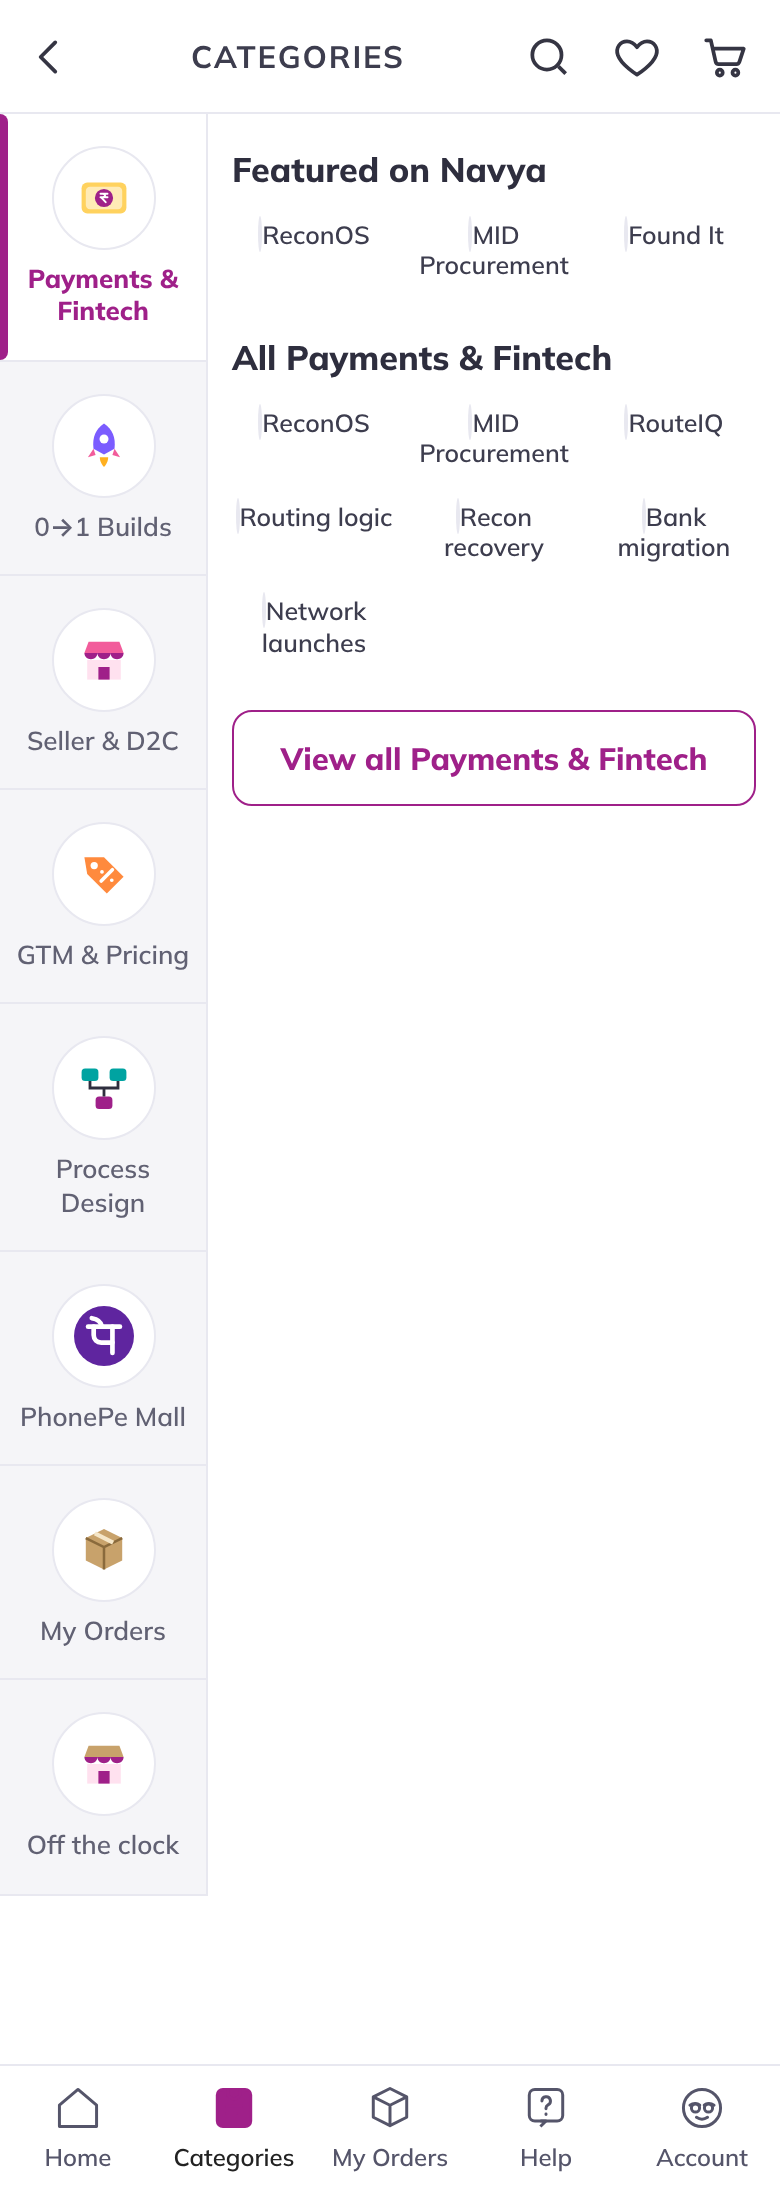
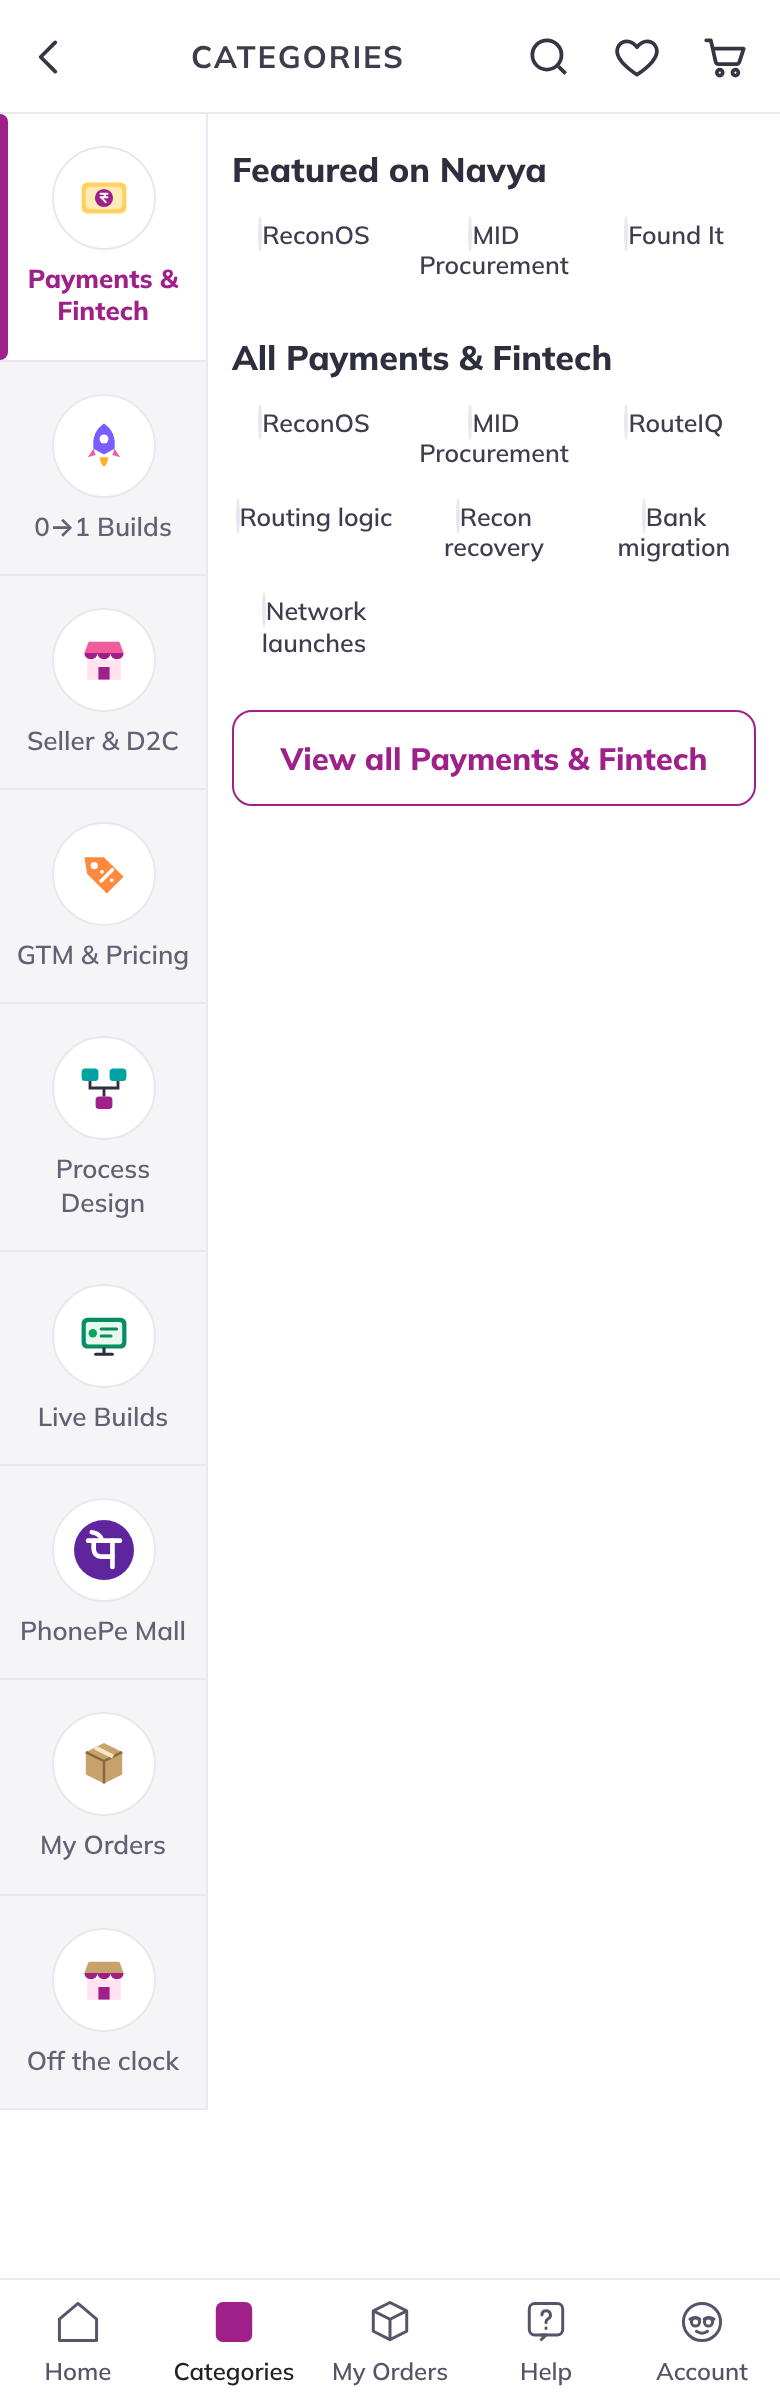
Make live builds easy to find: Try it live buttons, PDP live bar, Live Builds filter
Also fixes the mobile listing header order and trims the desktop nav row.

Claude-Session: https://claude.ai/code/session_01THtnK1kzX2RkawkJBz5nu7

diff --git a/assets/app.js b/assets/app.js
@@ -5,7 +5,8 @@
   var $ = function (s, r) { return (r || document).querySelector(s); };
   var $$ = function (s, r) { return Array.prototype.slice.call((r || document).querySelectorAll(s)); };
   var esc = function (s) { return String(s == null ? "" : s).replace(/[&<>"']/g, function (c) { return { "&": "&amp;", "<": "&lt;", ">": "&gt;", '"': "&quot;", "'": "&#39;" }[c]; }); };
-  var byId = {}; D.products.forEach(function (p) { byId[p.id] = p; });
+  var byId = {}; D.products.forEach(function (p) { byId[p.id] = p; if (p.links.length && p.cats.indexOf("live") < 0) p.cats.push("live"); });
+  function host(u) { return u.replace(/^https?:\/\//, "").replace(/^www\./, "").split("/")[0]; }
 
   /* ---------------- storage (per-viewer convenience only) ---------------- */
   function load(k, d) { try { var v = localStorage.getItem("mxn_" + k); return v ? JSON.parse(v) : d; } catch (e) { return d; } }
@@ -77,9 +78,10 @@
     flow: '<svg viewBox="0 0 40 40"><rect x="4" y="6" width="12" height="9" rx="2.5" fill="#00A3A1"/><rect x="24" y="6" width="12" height="9" rx="2.5" fill="#00A3A1"/><rect x="14" y="26" width="12" height="9" rx="2.5" fill="#9F2089"/><path d="M10 15v5h20v-5M20 20v6" stroke="#2E2E3E" stroke-width="2" fill="none"/></svg>',
     mall: '<img src="assets/logos/phonepe.svg" alt="">',
     orders: '<svg viewBox="0 0 40 40"><path d="M20 5l13 6.5v16L20 34 7 27.5v-16z" fill="#C8A26B"/><path d="M7 11.5L20 18l13-6.5M20 18v16" stroke="#8A6A3C" stroke-width="1.8" fill="none"/><path d="M13.5 8.2l13 6.5" stroke="#F5E6C8" stroke-width="3"/></svg>',
+    live: '<svg viewBox="0 0 40 40"><rect x="4" y="7" width="32" height="22" rx="4" fill="#038D63"/><rect x="7" y="10" width="26" height="16" rx="2" fill="#E7F8EF"/><circle cx="12" cy="18" r="3" fill="#06A759"/><path d="M18 15h11M18 20h7" stroke="#038D63" stroke-width="2.2" stroke-linecap="round"/><path d="M14 33h12M20 29v4" stroke="#2E2E3E" stroke-width="2.2" stroke-linecap="round"/></svg>',
     help: '<svg viewBox="0 0 40 40"><path d="M6 9a4 4 0 0 1 4-4h20a4 4 0 0 1 4 4v14a4 4 0 0 1-4 4H17l-7 6v-6a4 4 0 0 1-4-4z" fill="#9F2089"/><path d="M16.5 13a3.5 3.5 0 1 1 5 3.2c-1 .5-1.5 1.2-1.5 2.3M20 22v.4" stroke="#fff" stroke-width="2.4" fill="none" stroke-linecap="round"/></svg>'
   };
-  var CIRC_BG = { grid: "#FDE7F1", rupee: "#FFF6DA", rocket: "#EEE9FF", store: "#FDE7F1", tag: "#FFEDE0", flow: "#E0F6F5", mall: "#F0E8FA", orders: "#F7EFE2", help: "#F9E6F4" };
+  var CIRC_BG = { grid: "#FDE7F1", rupee: "#FFF6DA", rocket: "#EEE9FF", store: "#FDE7F1", tag: "#FFEDE0", flow: "#E0F6F5", mall: "#F0E8FA", live: "#E7F8EF", orders: "#F7EFE2", help: "#F9E6F4" };
 
   /* ---------------- shared bits ---------------- */
   function provChip(p) {
@@ -109,6 +111,7 @@
           '<div class="hook">' + esc(p.hook) + "</div>" +
           '<div class="rate"><span class="pill ' + pillCls(p) + '">' + esc(p.kind.split(" · ")[0].split(" & ")[0]) + '</span><img src="' + s.logo + '" alt=""><span class="sl">(' + esc(s.name) + ")</span></div>" +
         "</div></a>" +
+      (p.links.length ? '<a class="try-live" href="' + p.links[0].u + '" target="_blank" rel="noopener" aria-label="Try ' + esc(p.short) + ' live at ' + esc(host(p.links[0].u)) + ' (opens in new tab)"><i></i>Try it live ' + I.ext + "</a>" : "") +
       '<button class="heart' + (w ? " on" : "") + '" data-act="wish" data-id="' + p.id + '" aria-pressed="' + w + '" aria-label="' + (w ? "Remove from" : "Add to") + ' wishlist: ' + esc(p.short) + '">' + I.heart + "</button>" +
       "</article>";
   }
@@ -224,6 +227,7 @@
       ["#/shop/build", "rocket", "0→1 Builds"],
       ["#/shop/seller", "store", "Seller & D2C"],
       ["#/shop/gtm", "tag", "GTM & Pricing"],
+      ["#/shop/live", "live", "Live Builds"],
       ["#/shop/mall", "mall", "PhonePe Mall"],
       ["#/orders", "orders", t("orders")],
       ["#/help", "help", "Contact"]
@@ -281,7 +285,8 @@
     seller: "The supply side: D2C brands, sourcing, couriers, COD remittances and the leaks a small seller lives with.",
     gtm: "Consumer research, segmentation, pricing tiers and launch plans — quantified before anything was committed.",
     process: "Multi-party workflows made measurable: turnaround clocks, intake checks, go-live pipelines.",
-    mall: "Verified professional results from PhonePe, sold by the brand itself."
+    mall: "Verified professional results from PhonePe, sold by the brand itself.",
+    live: "Working products and prototypes you can open right now — each one links straight to the live build."
   };
   function vShop(cat) {
     var list = filtered(cat);
@@ -315,6 +320,7 @@
       provChip(p.price.prov) +
       '<div class="rate"><span class="pill ' + pillCls(p) + '">✦ ' + esc(p.badge) + '</span><span class="sl">' + esc(p.kind) + (p.date ? " · " + esc(p.date) : "") + "</span></div>" +
       '<div class="free">' + I.truck + ti("free30") + "</div>" +
+      (p.links.length ? '<a class="live-bar" href="' + p.links[0].u + '" target="_blank" rel="noopener"><span class="lb-dot"></span><span><b>' + esc(p.links[0].t) + '</b><small>' + esc(host(p.links[0].u)) + ' · opens in a new tab</small></span>' + I.ext + "</a>" : "") +
       '<div class="buybar"><button class="btn ol" data-act="cart" data-id="' + id + '">' + I.cart + "<span>" + (inCart ? "Go to Cart" : t("addCart")) + '</span></button><button class="btn" data-act="buy" data-id="' + id + '">' + ti("buyNow") + "</button></div></div>" +
 
       '<div class="card"><h2>' + ti("selectView") + '</h2><div class="sizes" role="tablist">' +
@@ -501,7 +507,7 @@
         '<a class="icn" href="#/account">' + I.user + ti("profile") + '</a><a class="icn" href="#/wishlist">' + I.heart + ti("wishlist") + cnt(wc) + '</a><a class="icn" href="#/cart">' + I.cart + ti("cart") + cnt(cc) + "</a></div></div>" +
       '<nav class="navrow" aria-label="Departments"><ul>' +
         [["#/shop/all", "Popular"]].concat(D.cats.filter(function (c) { return c.id !== "all"; }).map(function (c) { return ["#/shop/" + c.id, S.lang === "hi" ? c.hi : c.name]; }))
-          .concat([["#/orders", t("orders")], ["#/categories", t("categories")], ["#/help", t("help")]])
+          .concat([["#/orders", t("orders")], ["#/help", t("help")]])
           .map(function (x) { return '<li><a href="' + x[0] + '" data-nav="' + x[0] + '">' + esc(x[1]) + "</a></li>"; }).join("") + "</ul></nav>";
     $("#bnav").innerHTML = [["#/", "nHome", "home"], ["#/categories", "nCat", "categories"], ["#/orders", "nOrders", "orders"], ["#/help", "nHelp", "help"], ["#/account", "nAcc", "account"]]
       .map(function (x) { return '<a href="' + x[0] + '" data-tab="' + x[0] + '">' + I[x[1]] + ti(x[2]) + "</a>"; }).join("");

diff --git a/assets/app.css b/assets/app.css
@@ -668,8 +668,8 @@ body:not(.r-home):not(.r-shop) .mic-fab{display:none}
   .trust .t-ic{width:26px;height:26px}
   .trust b,.trust span{display:inline;font-size:16px;font-weight:600;text-decoration:none!important}
   .trust b{margin-right:4px}
-  .circles{max-width:1240px;margin:0 auto;padding:30px 24px 10px;gap:28px;justify-content:space-between;overflow:visible}
-  .circ{width:120px}
+  .circles{max-width:1240px;margin:0 auto;padding:30px 24px 10px;gap:12px;justify-content:space-between;overflow:visible}
+  .circ{width:118px}
   .circ .c-img{width:116px;height:116px;border-radius:50% 50% 14px 14px;background:var(--m-50)!important;border:0}
   .circ .c-img svg{width:54px;height:54px}
   .circ span{font-size:14.5px}
@@ -760,3 +760,21 @@ body:not(.r-home):not(.r-shop) .mic-fab{display:none}
 }
 .sheet{visibility:hidden;transition:transform .3s cubic-bezier(.2,.8,.2,1),visibility 0s linear .3s}
 .sheet.on{visibility:visible;transition:transform .3s cubic-bezier(.2,.8,.2,1)}
+/* live builds */
+.pc{display:flex;flex-direction:column}
+.pc-link{flex:1}
+.try-live{display:flex;align-items:center;justify-content:center;gap:6px;margin:0 12px 12px;height:36px;border-radius:8px;border:1.5px solid var(--green);color:var(--green);font-weight:800;font-size:13.5px;background:#fff;transition:background .15s}
+.try-live:hover{background:var(--green-50)}
+.try-live i,.lb-dot{width:8px;height:8px;border-radius:50%;background:var(--green-2);box-shadow:0 0 0 0 rgba(6,167,89,.5);animation:livePulse 1.8s infinite;flex:none}
+.try-live svg{width:14px;height:14px;stroke:currentColor;fill:none;stroke-width:2.4}
+@keyframes livePulse{70%{box-shadow:0 0 0 7px rgba(6,167,89,0)}100%{box-shadow:0 0 0 0 rgba(6,167,89,0)}}
+.live-bar{display:flex;align-items:center;gap:12px;margin-top:14px;padding:12px 14px;border-radius:12px;background:linear-gradient(135deg,#E7F8EF,#D4F3E3);border:1.5px solid #9CE0BC;color:#064E35}
+.live-bar:hover{border-color:var(--green)}
+.live-bar span:nth-child(2){flex:1;min-width:0}
+.live-bar b{display:block;font-size:15px;font-weight:900}
+.live-bar small{display:block;font-size:12.5px;font-weight:600;color:#2F6E52}
+.live-bar svg{width:20px;height:20px;stroke:var(--green);fill:none;stroke-width:2.2;flex:none}
+@media (prefers-reduced-motion:reduce){.try-live i,.lb-dot{animation:none}}
+.hdr{display:flex;flex-direction:column}
+.hdr-sub{order:-1}
+@media (min-width:1024px){.hdr{display:block}}

diff --git a/assets/data.js b/assets/data.js
@@ -40,6 +40,7 @@ window.NJ = {
     { id: "seller",   name: "Seller & D2C",       hi: "सेलर और D2C",    icon: "store" },
     { id: "gtm",      name: "GTM & Pricing",      hi: "GTM और प्राइसिंग", icon: "tag" },
     { id: "process",  name: "Process Design",     hi: "प्रोसेस डिज़ाइन",  icon: "flow" },
+    { id: "live",     name: "Live Builds",        hi: "लाइव बिल्ड",      icon: "live" },
     { id: "mall",     name: "PhonePe Mall",       hi: "PhonePe मॉल",    icon: "mall" }
   ],
 
